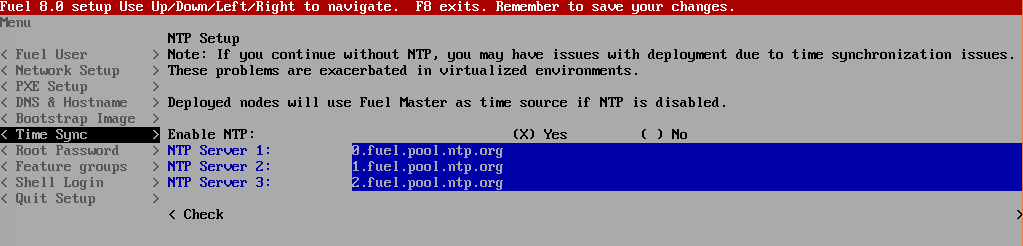
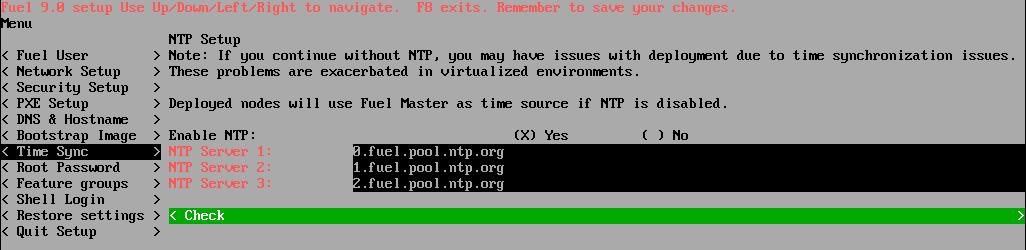
Final updates of the Installation instructions: - Images updated - Updated reference URIs
WIP
DO NOT MERGE

diff --git a/docs/installationprocedure/installation.instruction.rst b/docs/installationprocedure/installation.instruction.rst
@@ -1,6 +1,6 @@
-========================================================================================================
+=====================================================================================================
 OPNFV Installation instruction for the Colorado release of OPNFV when using Fuel as a deployment tool
-========================================================================================================
+=====================================================================================================
 
 License
 =======
@@ -13,7 +13,7 @@ Abstract
 ========
 
 This document describes how to install the Colorado release of
-OPNFV when using Fuel as a deployment tool, covering  it's usage,
+OPNFV when using Fuel as a deployment tool, covering it's usage,
 limitations, dependencies and required system resources.
 
 Introduction
@@ -35,6 +35,7 @@ networking and Unix/Linux administration.
 
 Preface
 =======
+
 Before starting the installation of the Colorado release of
 OPNFV, using Fuel as a deployment tool, some planning must be
 done.
@@ -49,7 +50,8 @@ Building the ISO image
 ----------------------
 
 Alternatively, you may build the Fuel .iso from source by cloning the
-opnfv/fuel git repository.  To retrieve the repository for the Colorado release use the following command:
+opnfv/fuel git repository. To retrieve the repository for the Colorado
+release use the following command:
 
 .. code-block:: bash
 
@@ -97,9 +99,10 @@ Prior to installation, a number of deployment specific parameters must be collec
 
 #.     How many nodes and what roles you want to deploy (Controllers, Storage, Computes)
 
-#.     Monitoring options you want to deploy (Ceilometer, Syslog, erc.).
+#.     Monitoring options you want to deploy (Ceilometer, Syslog, etc.).
 
-#.     Other options not covered in the document are available in the links above
+#.     Other options not covered in the document are available in the links
+above
 
 
 This information will be needed for the configuration procedures
@@ -207,7 +210,7 @@ Install Fuel master
 
    .. figure:: img/grub-1.png
 
-#. Wait until screen Fuel setup is shown (Note: This can take up to 30 minutes).
+#. Wait until the Fuel setup screen is shown (Note: This can take up to 30 minutes).
 
 #. In the "Fuel User" section - Confirm/change the default password (See figure below)
 
@@ -274,7 +277,7 @@ Install Fuel master
 
    - Select Quit Setup and press Save and Quit.
 
-   - Installation starts, wait until the login screen is shown.
+   - The installation will now start, wait until the login screen is shown.
 
 
 Boot the Node Servers
@@ -282,12 +285,12 @@ Boot the Node Servers
 
 After the Fuel Master node has rebooted from the above steps and is at
 the login prompt, you should boot the Node Servers (Your
-Compute/Control/Storage blades (nested or real) with a PXE booting
+Compute/Control/Storage blades, nested or real) with a PXE booting
 scheme so that the FUEL Master can pick them up for control.
 
 #. Enable PXE booting
 
-   - For every controller and compute server: enable PXE Booting as the first boot device in the BIOS boot order menu and hard disk as the second boot device in the same menu.
+   - For every controller and compute server: enable PXE Booting as the first boot device in the BIOS boot order menu, and hard disk as the second boot device in the same menu.
 
 #. Reboot all the control and compute blades.
 
@@ -324,7 +327,7 @@ Install additional Plugins/Features on the FUEL node
 Create an OpenStack Environment
 -------------------------------
 
-#. Connect to Fuel WEB UI with a browser (default: https://10.20.0.2:8443) (login admin/admin)
+#. Connect to Fuel WEB UI with a browser (default: https://10.20.0.2:8443) (login: admin/admin)
 
 #. Create and name a new OpenStack environment, to be installed.
 
@@ -350,7 +353,7 @@ Create an OpenStack Environment
 
 #. Select "additional services" you wish to install.
 
-   - Check option "Install Ceilometer (OpenStack Telemetry)" and press <Next>
+   - Check option "Install Ceilometer and Aodh" and press <Next>
 
 #. Create the new environment.
 
@@ -361,7 +364,7 @@ Configure the network environment
 
 #. Open the environment you previously created.
 
-#. Open the networks tab and select the "default Node Networks group to" on the left pane (see figure below).
+#. Open the networks tab and select the "default" Node Networks group to on the left pane (see figure below).
 
    .. figure:: img/network.png
 
@@ -413,7 +416,7 @@ Configure the network environment
 
    - Set appropriate VLAN tag (default 103)
 
-#. Select the "Neutron L3 Node Networks group" on the left pane.
+#. Select the "Neutron L3" Node Networks group on the left pane.
 
    .. figure:: img/neutronl3.png
 
@@ -439,7 +442,7 @@ Configure the network environment
 
 #. Save Settings.
 
-#. Select the "Other Node Networks group" on the left pane(see figure below).
+#. Select the "Other" Node Networks group on the left pane (see figure below).
 
    .. figure:: img/other.png
 
@@ -460,7 +463,7 @@ Select Hypervisor type
 
 #. In the FUEL UI of your Environment, click the "Settings" Tab
 
-#. Select Compute on the left side pane (see figure below)
+#. Select "Compute" on the left side pane (see figure below)
 
    - Check the KVM box and press "Save settings"
 
@@ -488,7 +491,7 @@ Allocate nodes to environment and assign functional roles
 
     - Click on the <+Add Nodes> button
 
-    - Check <Controller>, <Telemetry - MongoDB>  and optionally an SDN Controller role (OpenDaylight controller/ONOS) in the Assign Roles Section.
+    - Check <Controller>, <Telemetry - MongoDB>  and optionally an SDN Controller role (OpenDaylight controller/ONOS) in the "Assign Roles" Section.
 
     - Check one node which you want to act as a Controller from the bottom half of the screen
 
@@ -518,8 +521,7 @@ Allocate nodes to environment and assign functional roles
 
     - Click <Configure Interfaces>
 
-    - Assign interfaces (bonded) for mgmt-, admin-, private-, public-
-      and storage networks
+    - Assign interfaces (bonded) for mgmt-, admin-, private-, public- and storage networks
 
     - Click <Apply>
 
@@ -529,7 +531,7 @@ Allocate nodes to environment and assign functional roles
 OPTIONAL - Set Local Mirror Repos
 ---------------------------------
 
-The following steps can be executed if you are in an environment with
+The following steps must be executed if you are in an environment with
 no connection to the Internet. The Fuel server delivers a local repo
 that can be used for installation / deployment of openstack.
 
@@ -617,7 +619,7 @@ packages needed for a successful deployment can be fetched.
 Deploy Your Environment
 -----------------------
 
-38. Deploy the environment.
+#. Deploy the environment.
 
     - In the Fuel GUI, click on the "Dashboard" Tab.
 
@@ -647,43 +649,43 @@ References
 OPNFV
 -----
 
-1) `OPNFV Home Page <http://www.opnfv.org>`_
+1) `OPNFV Home Page <http://www.opnfv.org>`_: http://www.opnfv.org
 
-2) `OPNFV documentation- and software downloads <https://www.opnfv.org/software/download>`_
+2) `OPNFV documentation- and software downloads <https://www.opnfv.org/software/download>`_: https://www.opnfv.org/software/download
 
 OpenStack
 ---------
 
-3) `OpenStack Mitaka Release artifacts <http://www.openstack.org/software/mitaka>`_
+3) `OpenStack Mitaka Release artifacts <http://www.openstack.org/software/mitaka>`_: http://www.openstack.org/software/mitaka
 
-4) `OpenStack documentation <http://docs.openstack.org>`_
+4) `OpenStack documentation <http://docs.openstack.org>`_: http://docs.openstack.org
 
 OpenDaylight
 ------------
 
-5) `OpenDaylight artifacts <http://www.opendaylight.org/software/downloads>`_
+5) `OpenDaylight artifacts <http://www.opendaylight.org/software/downloads>`_: http://www.opendaylight.org/software/downloads
 
 Fuel
 ----
-6) `The Fuel OpenStack project <https://wiki.openstack.org/wiki/Fuel>`_
+6) `The Fuel OpenStack project <https://wiki.openstack.org/wiki/Fuel>`_: https://wiki.openstack.org/wiki/Fuel
 
-7) `Fuel documentation overview <http://docs.openstack.org/developer/fuel-docs>`_
+7) `Fuel documentation overview <http://docs.openstack.org/developer/fuel-docs>`_: http://docs.openstack.org/developer/fuel-docs
 
-8) `Fuel Installation Guide <http://docs.openstack.org/developer/fuel-docs/userdocs/fuel-install-guide.html>`_
+8) `Fuel Installation Guide <http://docs.openstack.org/developer/fuel-docs/userdocs/fuel-install-guide.html>`_: http://docs.openstack.org/developer/fuel-docs/userdocs/fuel-install-guide.html
 
-9) `Fuel User Guide <http://docs.openstack.org/developer/fuel-docs/userdocs/fuel-user-guide.html>`_
+9) `Fuel User Guide <http://docs.openstack.org/developer/fuel-docs/userdocs/fuel-user-guide.html>`_: http://docs.openstack.org/developer/fuel-docs/userdocs/fuel-user-guide.html
 
-10) `Fuel Developer Guide <http://docs.openstack.org/developer/fuel-docs/devdocs/develop.html>`_
+10) `Fuel Developer Guide <http://docs.openstack.org/developer/fuel-docs/devdocs/develop.html>`_: http://docs.openstack.org/developer/fuel-docs/devdocs/develop.html
 
-11) `Fuel Plugin Developers Guide <http://docs.openstack.org/developer/fuel-docs/plugindocs/fuel-plugin-sdk-guide.html>`_
+11) `Fuel Plugin Developers Guide <http://docs.openstack.org/developer/fuel-docs/plugindocs/fuel-plugin-sdk-guide.html>`_: http://docs.openstack.org/developer/fuel-docs/plugindocs/fuel-plugin-sdk-guide.html
 
-12) `Fuel OpenStack Hardware Compatibility List <https://www.mirantis.com/products/openstack-drivers-and-plugins/hardware-compatibility-list>`_
+12) `Fuel OpenStack Hardware Compatibility List <https://www.mirantis.com/products/openstack-drivers-and-plugins/hardware-compatibility-list>`_: https://www.mirantis.com/products/openstack-drivers-and-plugins/hardware-compatibility-list
 
 Fuel in OPNFV
 -------------
 
-13) `OPNFV Installation instruction for the Colorado release of OPNFV when using Fuel as a deployment tool <http://artifacts.opnfv.org/fuel/colorado/docs/installation-instruction.html>`_
+13) `OPNFV Installation instruction for the Colorado release of OPNFV when using Fuel as a deployment tool <http://artifacts.opnfv.org/fuel/colorado/docs/installationprocedure/index.html>`_: http://artifacts.opnfv.org/fuel/colorado/docs/installationprocedure/index.html
 
-14) `OPNFV Build instruction for the Colorado release of OPNFV when using Fuel as a deployment tool <http://artifacts.opnfv.org/fuel/colorado/docs/build-instruction.html>`_
+14) `OPNFV Build instruction for the Colorado release of OPNFV when using Fuel as a deployment tool <http://artifacts.opnfv.org/fuel/colorado/docs/buildprocedure/index.html>`_: http://artifacts.opnfv.org/fuel/colorado/docs/buildprocedure/index.html
 
-15) `OPNFV Release Note for the Colorado release of OPNFV when using Fuel as a deployment tool <http://artifacts.opnfv.org/fuel/colorado/docs/release-notes.html>`_
+15) `OPNFV Release Note for the Colorado release of OPNFV when using Fuel as a deployment tool <http://artifacts.opnfv.org/fuel/colorado/docs/releasenotes/index.html>`_: http://artifacts.opnfv.org/fuel/colorado/docs/releasenotes/index.html
